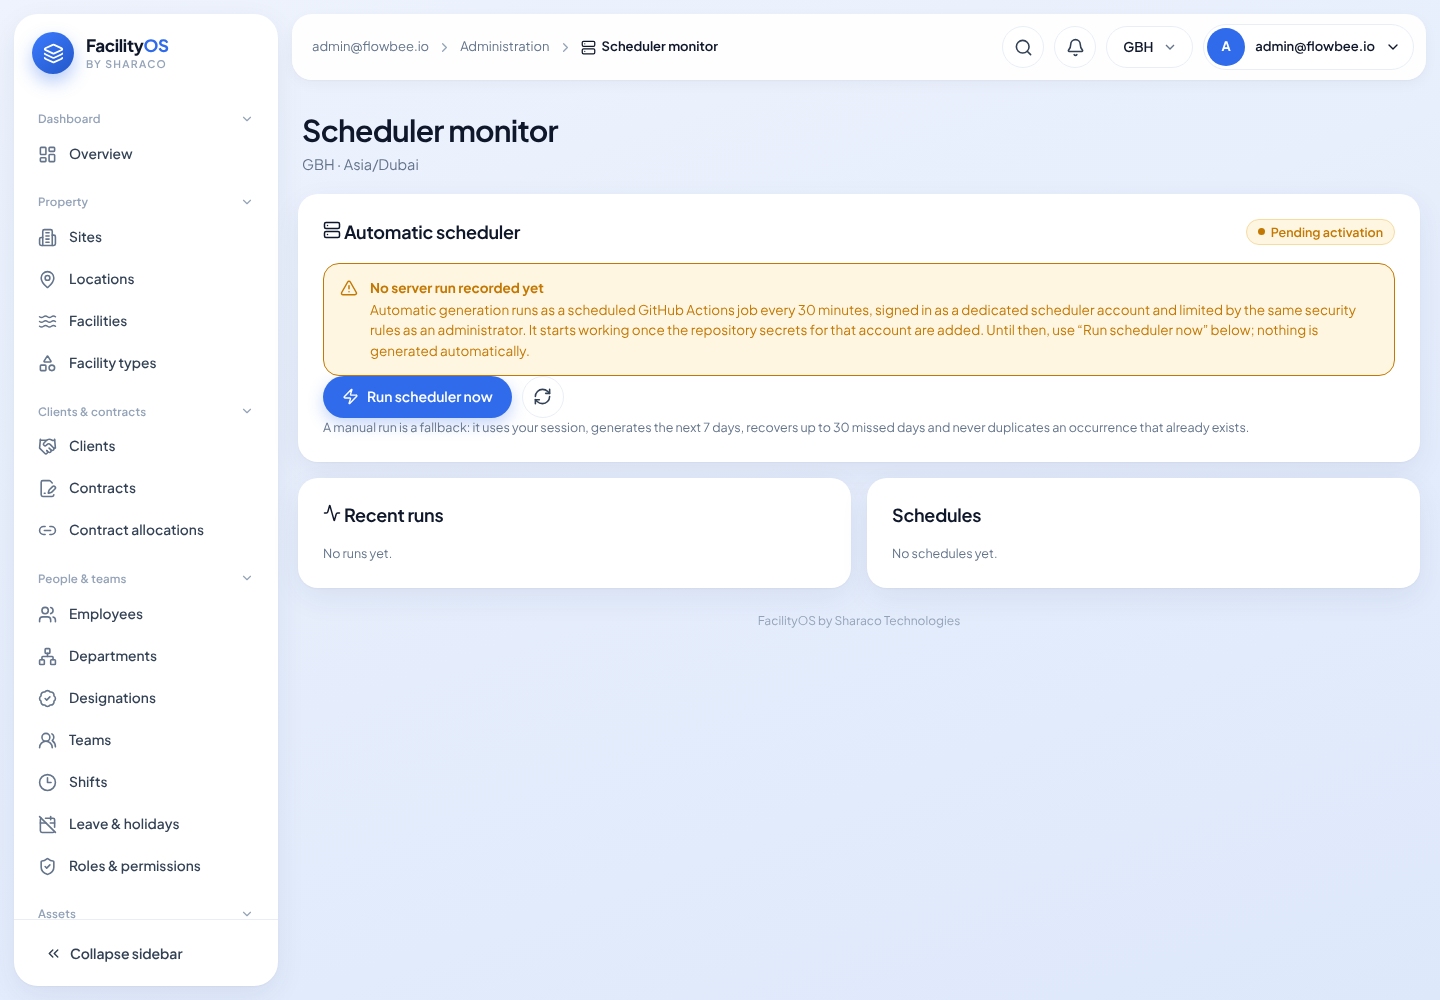
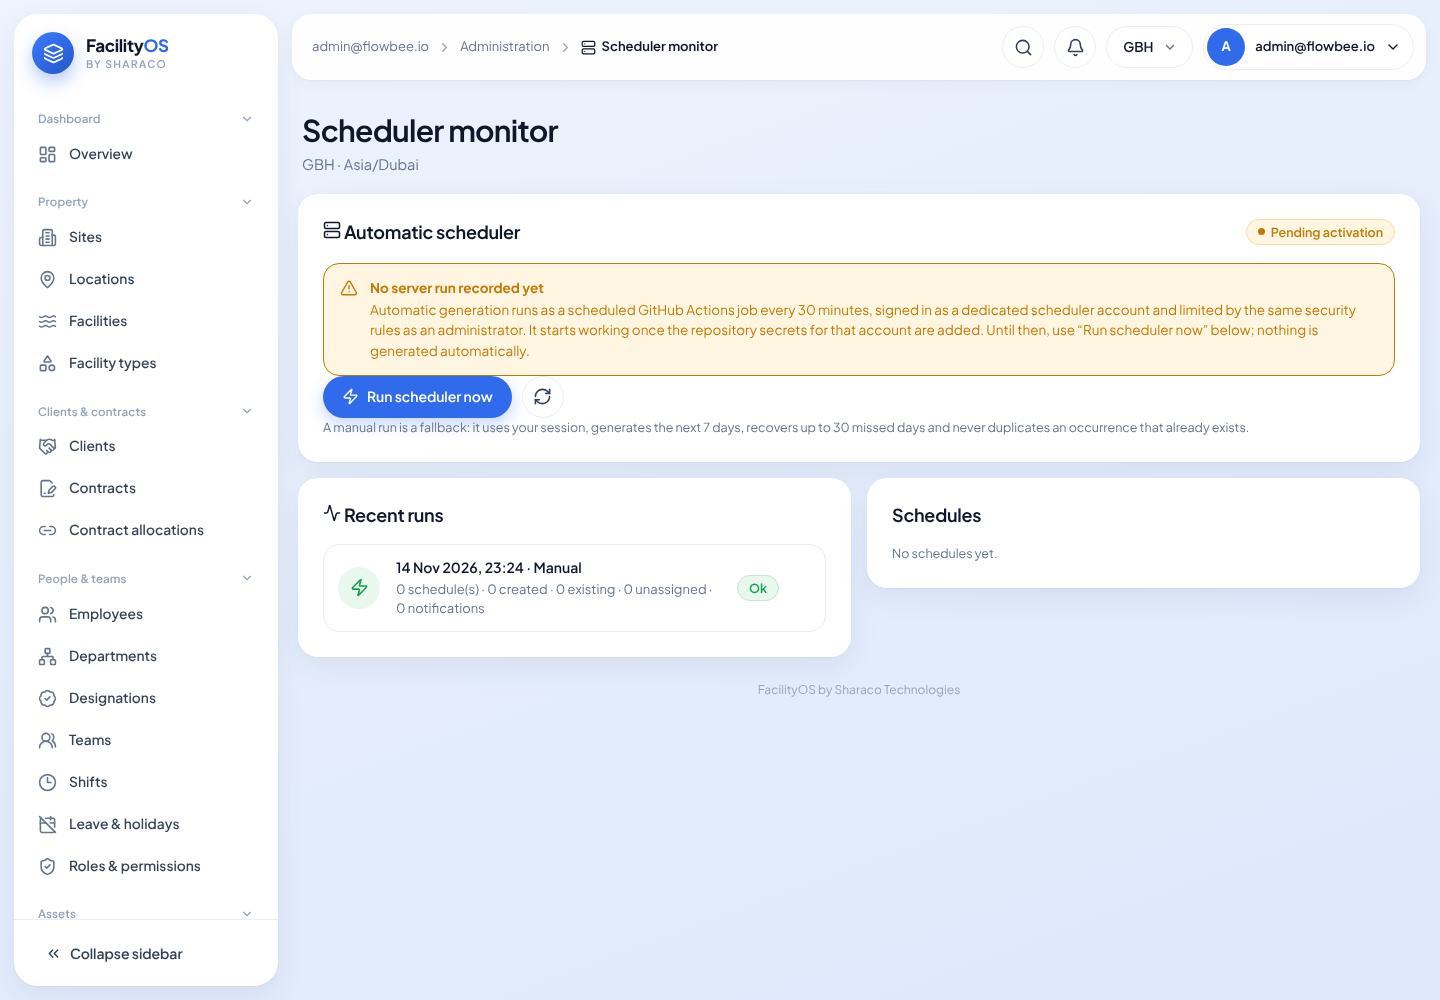
Record Phase 5 rules and index deployment
Claude-Session: https://claude.ai/code/session_01465nHL3o3ezZyA3GEjXGwg

Changed region(s): [[0.1875, 0.558, 0.5938, 0.713], [0.625, 0.682, 0.6562, 0.713]]

diff --git a/docs/phase5-report.md b/docs/phase5-report.md
@@ -60,7 +60,14 @@ Existing roles are reused (no new role model). Technicians/staff work on tasks a
 
 ## Release
 
-See the final section of this report after deployment.
+| Step                                                                                          | Status                                                                                                                                                                                                                                                                      |
+| --------------------------------------------------------------------------------------------- | --------------------------------------------------------------------------------------------------------------------------------------------------------------------------------------------------------------------------------------------------------------------------- |
+| Firestore rules + 5 new indexes                                                               | **Deployed** to `facilityos-43386` on 15 November 2026 after the emulator suites passed. The released ruleset was read back and matches the repository; all 185 composite indexes READY; billing still disabled (Spark). Live admin screens re-checked under the new rules. |
+| Staff Web publish (`https://tsforcetech.github.io/FMS/staff/`) and Staff access page in admin | **Pending approval**: publishes when the branch is merged to `main` (Pages builds both apps; the admin app at `/FMS/` is not replaced).                                                                                                                                     |
+| Live staff login verification                                                                 | **Pending**: needs a real staff login provisioned with `scripts/provision-staff.mjs` and linked to a real employee in GBH. Not done without the owner's approval.                                                                                                           |
+| Automatic scheduling                                                                          | **Pending activation** (unchanged from Phase 4).                                                                                                                                                                                                                            |
+
+Rollback: redeploy rules and indexes from `391a63b`.
 
 ## Limitations
 
